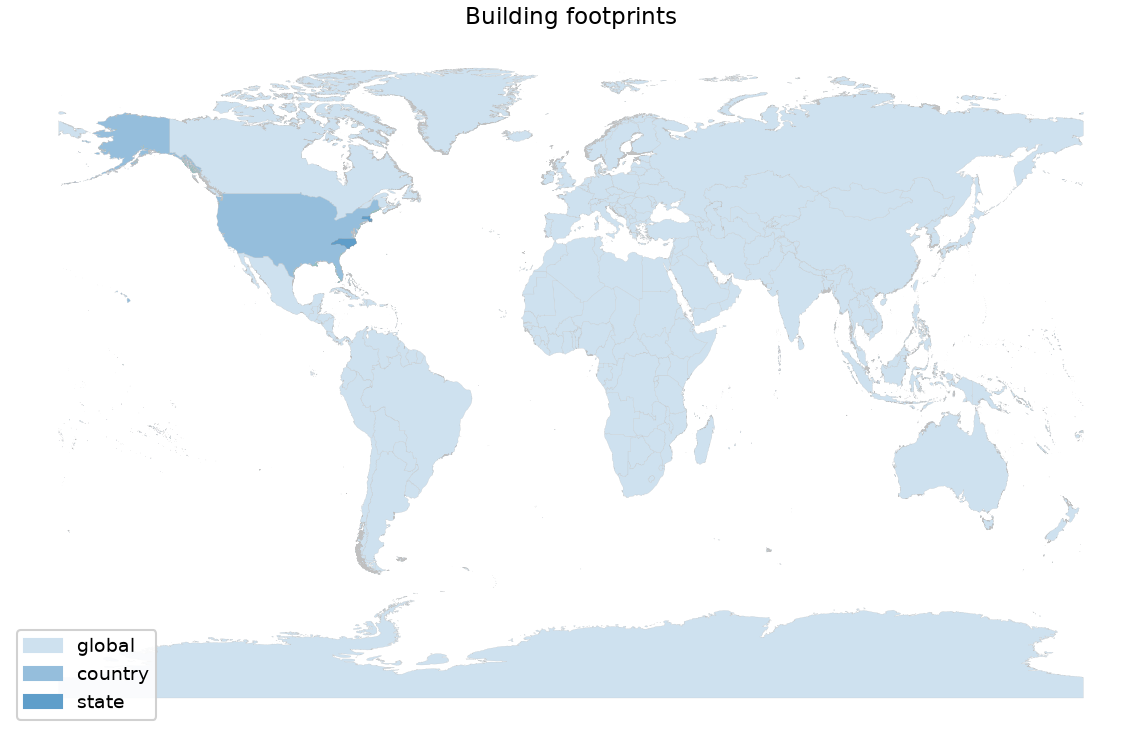
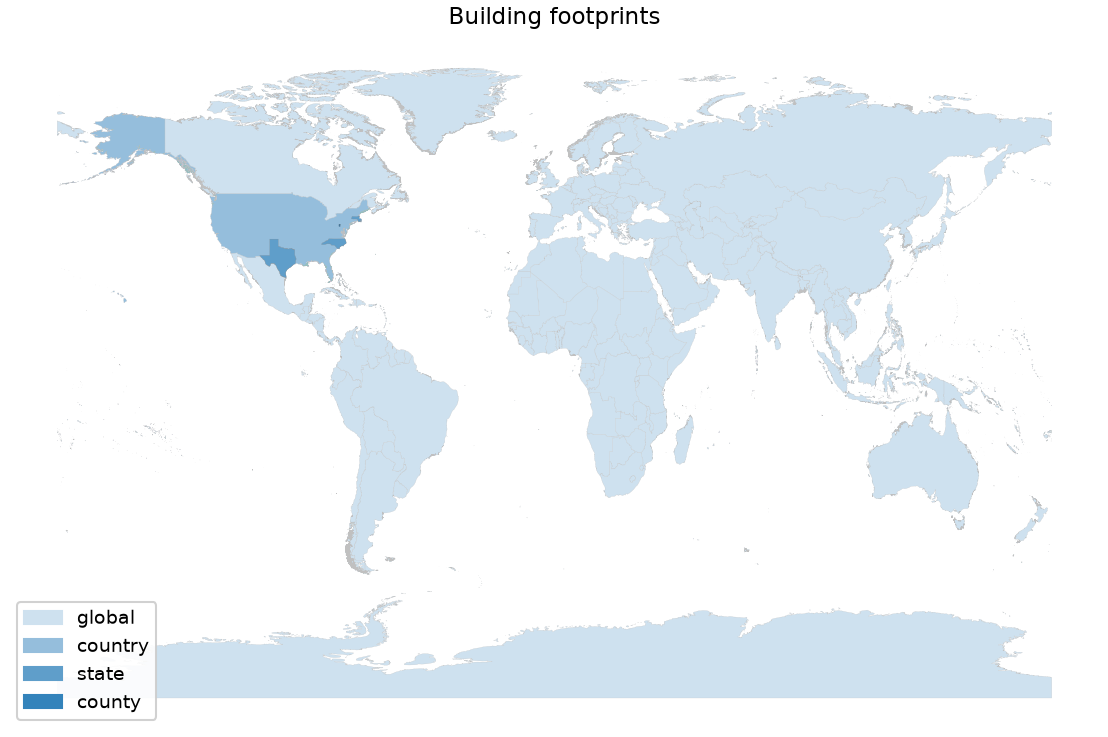
Add a property recipe coverage map to the docs catalog, drop the harmonize/curate map, and regenerate the maps
The maps are pre-rendered snapshots (last 2026-08-20). The generator now skips recipes git does not track, so a held local recipe cannot shade a whole country.

Changed region(s): [[0.0, 0.8114, 0.1534, 0.9674], [0.3989, 0.0, 0.6137, 0.0312], [0.2148, 0.3121, 0.2762, 0.3745]]

diff --git a/docs/_ext/recipe_catalog.py b/docs/_ext/recipe_catalog.py
@@ -141,6 +141,12 @@ _INGEST_MAPS = (
         'Buildings',
     ),
     ('recipe_coverage_parcel', 'Map of parcel recipe coverage', 'Parcels'),
+    (
+        'recipe_coverage_property',
+        'Map of property recipe coverage',
+        'Properties (tax rolls and CAMA tables, with room counts where the '
+        'source publishes them)',
+    ),
 )
 
 
@@ -165,7 +171,7 @@ class RecipeCoverage(Directive):
     def run(self) -> list[nodes.Node]:
         lines = headline_lines(summarize())
         lines += [
-            'The three maps below cover **data ingestion** recipes -- the',
+            'The four maps below cover **data ingestion** recipes -- the',
             "recipes that download and structure each entity type's raw",
             'source data, one entity type at a time. Maps are stacked full',
             'width, cropped to the covered area, so coverage stays legible',
@@ -181,21 +187,6 @@ class RecipeCoverage(Directive):
                 f'   {caption}',
                 '',
             ]
-
-        lines += [
-            'Ingested footprints and parcels are then linked together in',
-            '``harmonize`` and ``curate``. The map below is that linked',
-            "entity's recipe coverage -- US only for now -- rather than",
-            'ingestion; note that a country-scoped recipe colors the whole',
-            'country, which is coarser than the counties actually curated.',
-            '',
-            '.. figure:: /_static/images/recipe_coverage_footprint_parcel_linked.png',
-            '   :width: 100%',
-            '   :alt: Map of footprints linked to parcels, harmonize/curate',
-            '',
-            '   Footprints linked to parcels (harmonize / curate, US only)',
-            '',
-        ]
 
         node = nodes.section()
         node.document = self.state.document

diff --git a/docs/_ext/generate_coverage_maps.py b/docs/_ext/generate_coverage_maps.py
@@ -63,11 +63,11 @@ MAPS = [
     ),
     ('parcel', ('ingest',), None, 'Parcels', 'recipe_coverage_parcel'),
     (
-        'footprint',
-        ('harmonize', 'curate'),
-        'US',
-        'Footprints linked to parcels · harmonize / curate · US only',
-        'recipe_coverage_footprint_parcel_linked',
+        'property',
+        ('ingest',),
+        None,
+        'Properties (tax rolls and CAMA tables)',
+        'recipe_coverage_property',
     ),
 ]
 
@@ -86,9 +86,29 @@ def _level_edgecolor(level: int) -> str:
     return _LEVEL_EDGECOLORS.get(level, '#303030')
 
 
+def _tracked_recipe_ids() -> frozenset[str]:
+    """Recipe ids of the YAML files git tracks under the recipe tree.
+
+    The catalog describes the committed tree. A recipe held locally and
+    git-ignored (a restricted source under review) still loads, and a
+    country-scoped one would shade a whole country on a published map.
+    """
+    import subprocess
+
+    listed = subprocess.run(
+        ['git', 'ls-files', 'src/openplaces/recipes'],
+        cwd=REPO_ROOT,
+        capture_output=True,
+        text=True,
+        check=True,
+    ).stdout.split()
+    return frozenset(Path(f).stem for f in listed if f.endswith('.yaml'))
+
+
 def _select(entity_type: str, stages: tuple[str, ...], admin_prefix: str | None):
     df = find_recipes(entity_type)
     df = df[df['stage'].isin(stages)]
+    df = df[df['recipe_id'].isin(_tracked_recipe_ids())]
     if admin_prefix is not None:
         prefix = f'{admin_prefix}-'
         df = df[
